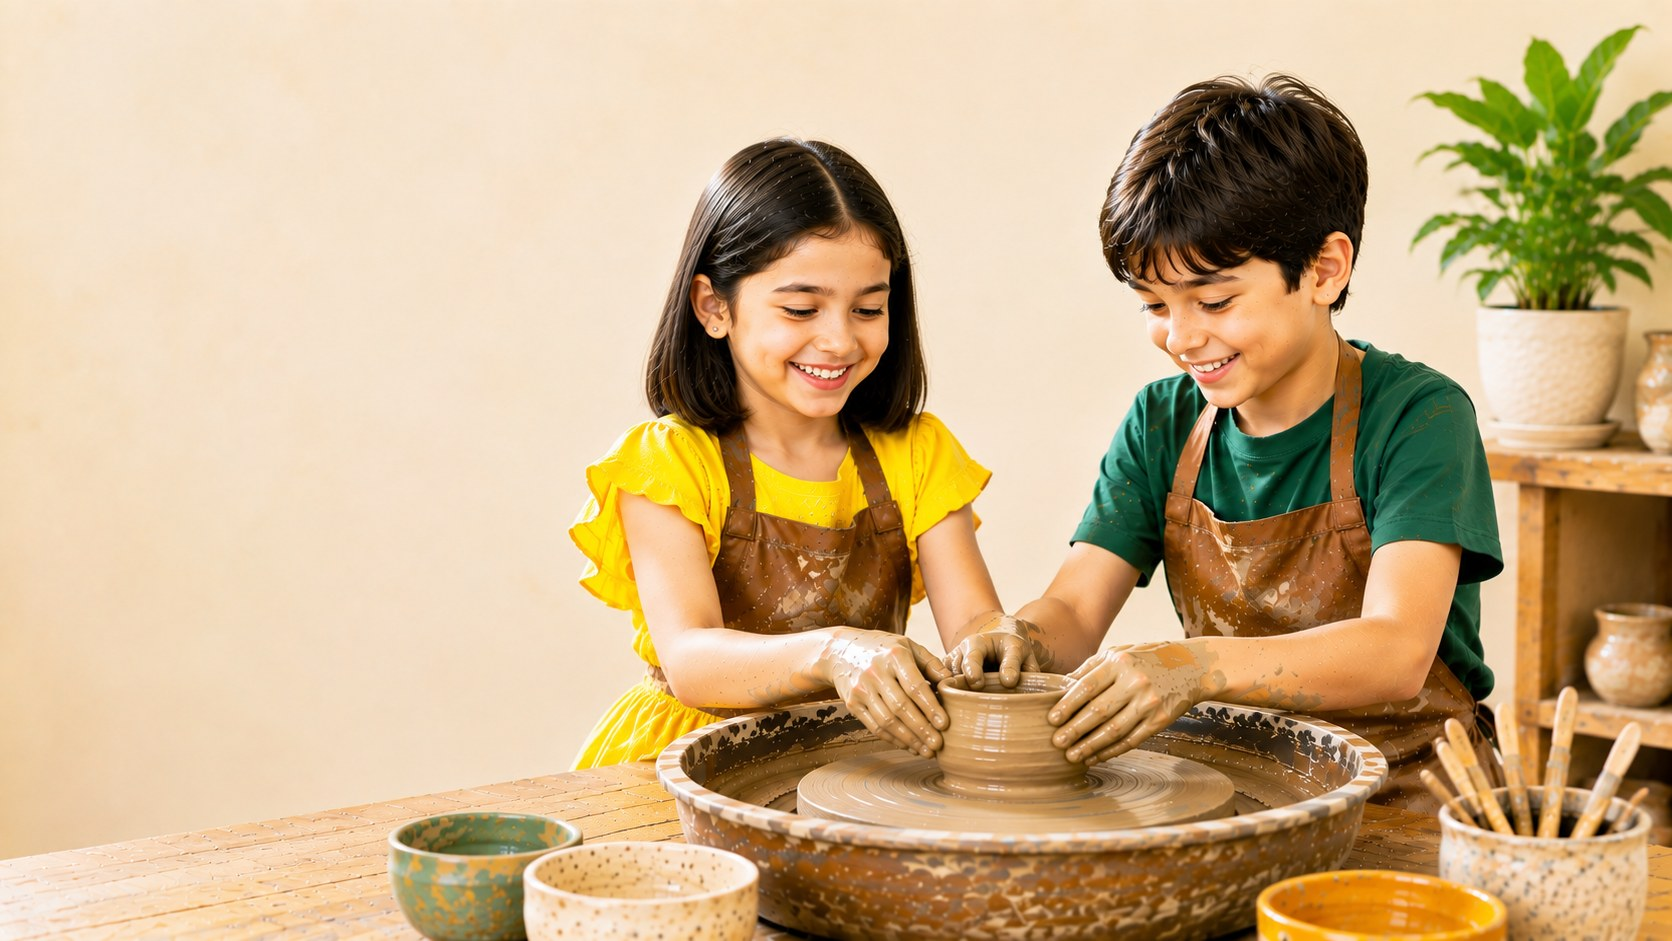
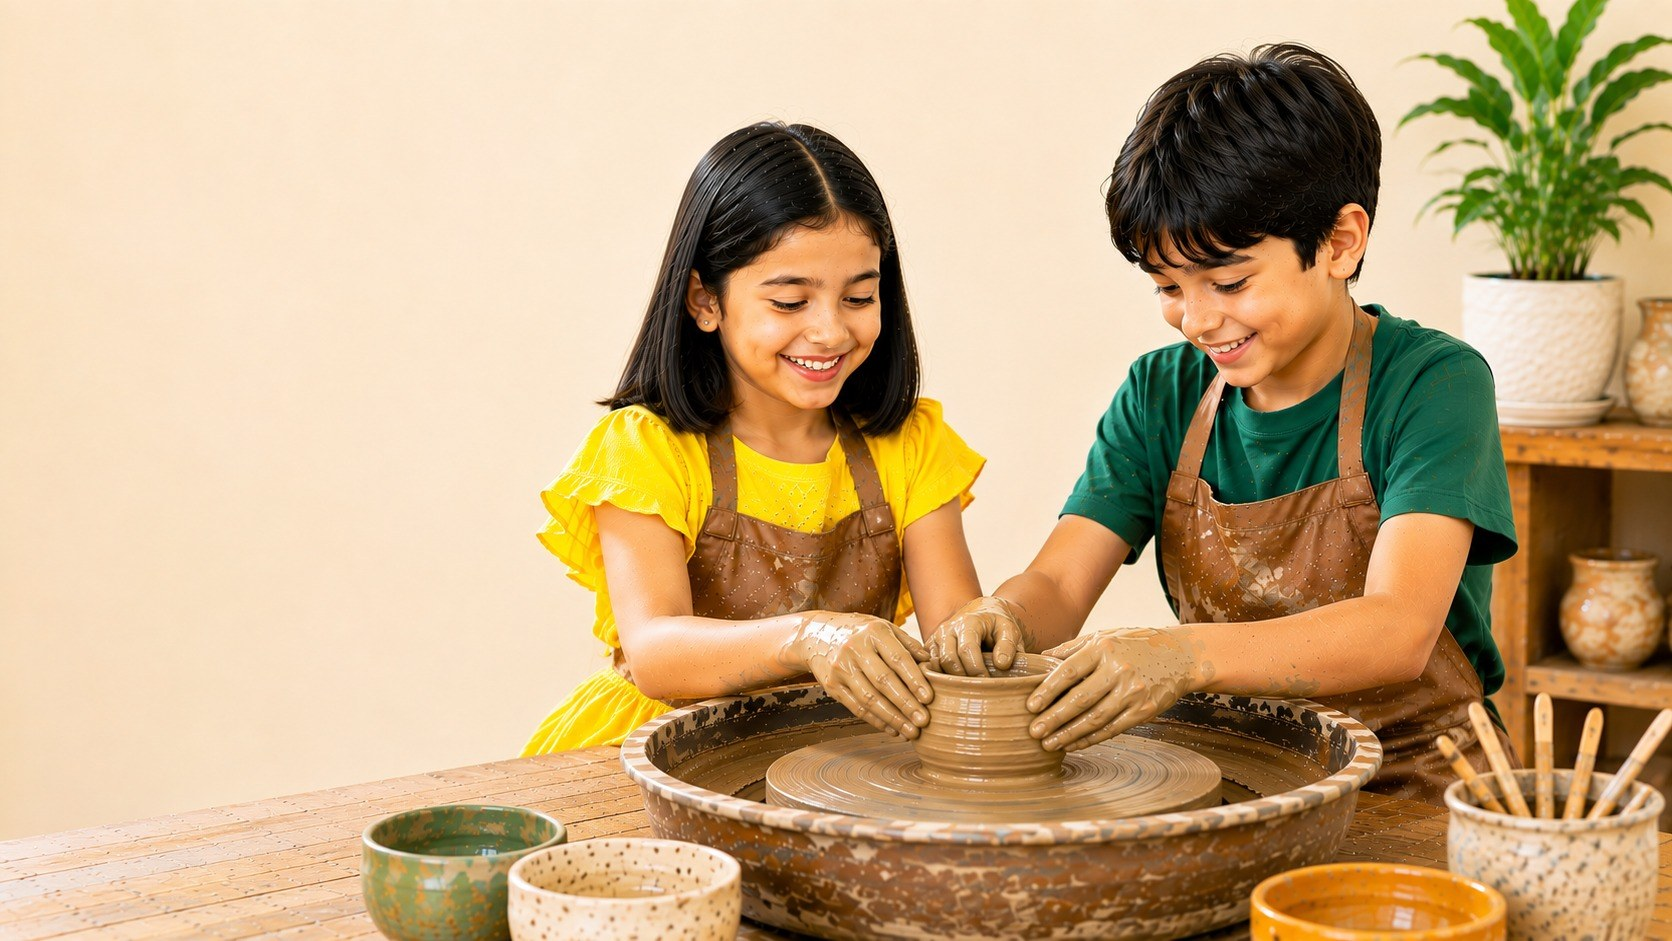
Fix hero crop to never cut off heads, update image

diff --git a/frontend/src/pages/Homepage.jsx b/frontend/src/pages/Homepage.jsx
@@ -679,7 +679,7 @@ function Homepage() {
           <img
             src={heroImg}
             alt="Children happily taking part in creative and educational activities"
-            className="h-full w-full object-cover object-right [filter:saturate(1.15)_contrast(1.06)]"
+            className="h-full w-full object-cover object-right-top [filter:saturate(1.15)_contrast(1.06)]"
             loading="eager"
           />
           <div className="absolute inset-0 bg-gradient-to-b from-brand-cream/70 via-brand-cream/25 to-transparent md:bg-gradient-to-r md:from-brand-cream/90 md:via-brand-cream/35 md:via-55% md:to-transparent md:to-88%" />
